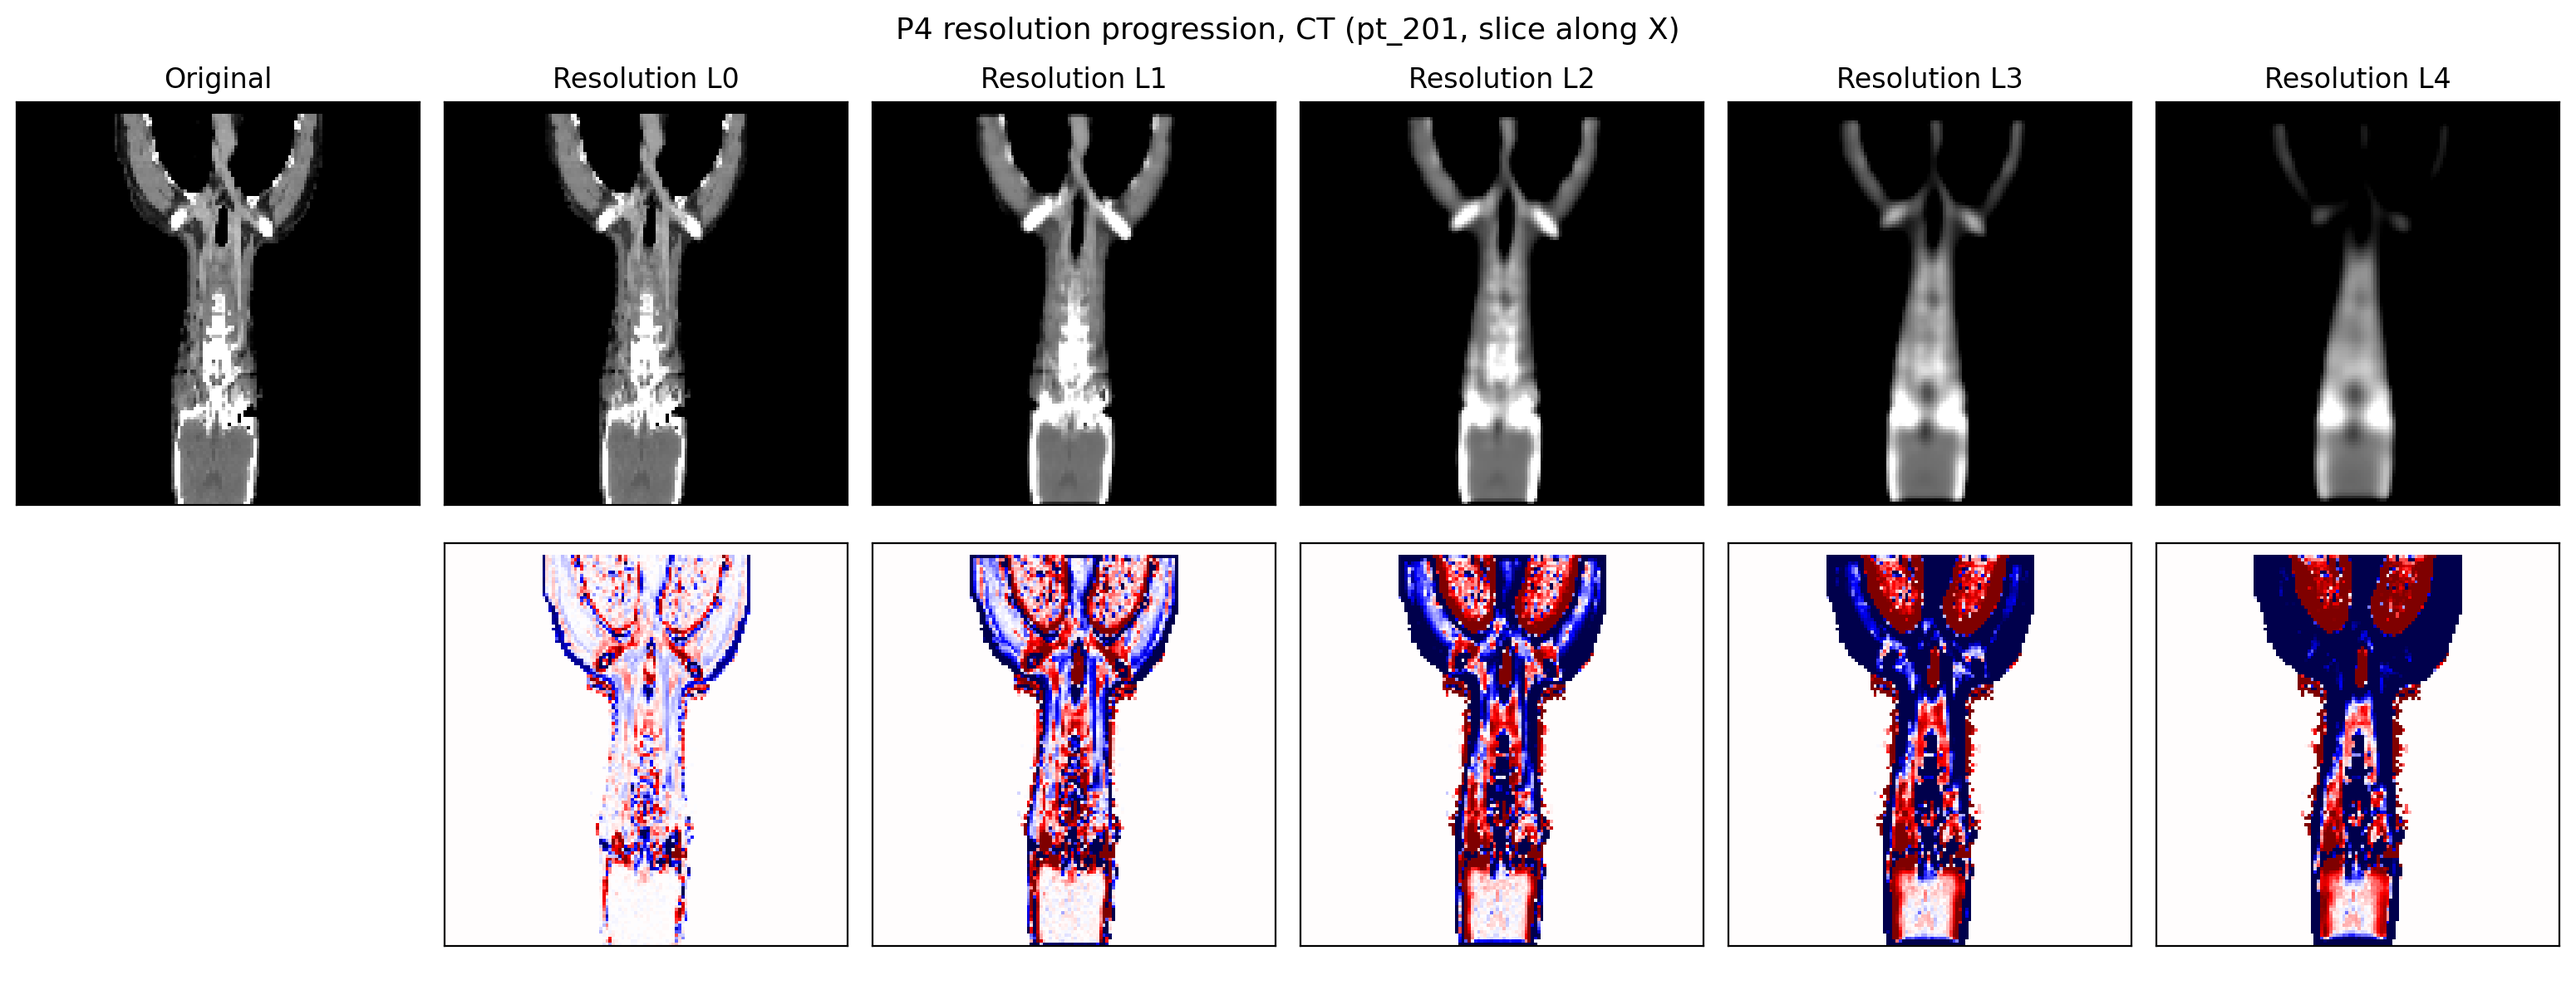
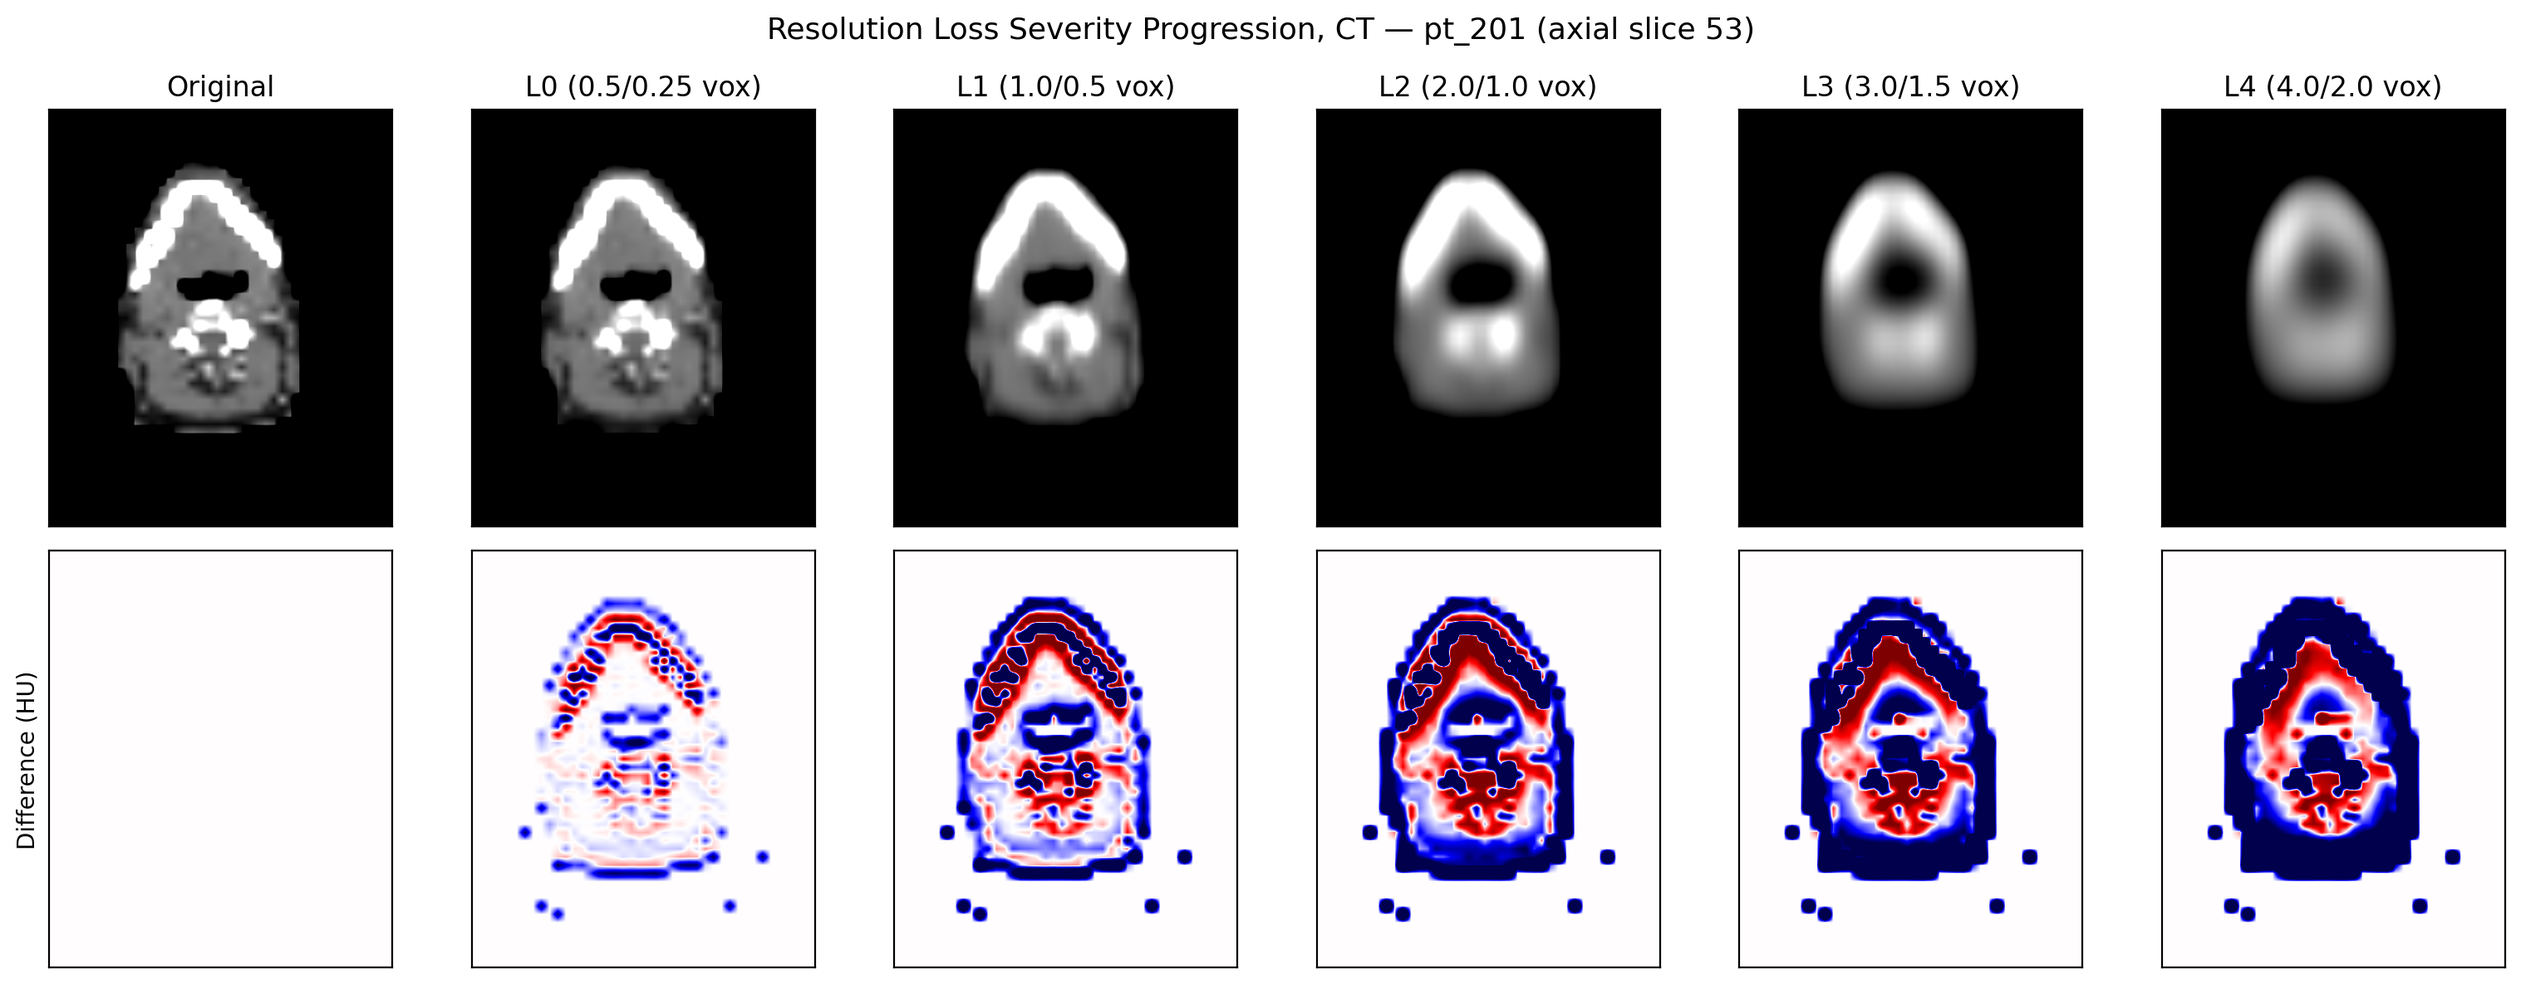
ASTRO package: resolve axis question (Z is axial), regen P4 progressions as true axial, update README
Visually verified ct_orientation_xyz.png: X=coronal, Y=sagittal, Z=axial.
Package now ships ct_slices_axial / dose_difference_axial and Z-sliced P4
progressions; README no longer asks the builder to confirm orientation.

diff --git a/reports/report2_ct_perturbation/astro_poster/regen_p4_progression_axial.py b/reports/report2_ct_perturbation/astro_poster/regen_p4_progression_axial.py
@@ -1,0 +1,114 @@
+#!/usr/bin/env python3
+"""Regenerate the P4 (resolution) severity-progression figures as TRUE AXIAL slices (axis 2, S-I),
+same recipe as regen_axial_figures.py: max-PTV-area slice, body-bbox crop, soft-tissue window.
+CPU only; reads SanDisk warehouse CTs, perturbed CTs, and saved prediction CSVs.
+"""
+import os
+import numpy as np
+import pandas as pd
+import matplotlib
+matplotlib.use("Agg")
+import matplotlib.pyplot as plt
+
+SD = "/Volumes/Neil's SanDisk/OpenKBP-Warehouse/open-kbp-modified"
+VAL = f"{SD}/provided-data/validation-pats"
+PERT = f"{SD}/openkbp_hn_robustness/data_perturbed"
+PRED = f"{SD}/openkbp_hn_robustness/predictions"
+SHAPE = (128, 128, 128)
+PID = "pt_201"
+LEVELS = ["L0", "L1", "L2", "L3", "L4"]
+LEVEL_PARAMS = ["0.5/0.25", "1.0/0.5", "2.0/1.0", "3.0/1.5", "4.0/2.0"]
+CT_MAX, HU_OFFSET = 4095.0, 1024.0
+WIN_LO, WIN_HI = 40.0 - 200.0, 40.0 + 200.0
+OUT = os.path.dirname(os.path.abspath(__file__))
+
+
+def load_vol(path):
+    df = pd.read_csv(path, index_col=0)
+    v = np.zeros(int(np.prod(SHAPE)))
+    v[df.index.values] = df["data"].values
+    return v.reshape(SHAPE)
+
+
+def load_mask(path):
+    df = pd.read_csv(path, index_col=0)
+    m = np.zeros(int(np.prod(SHAPE)), dtype=bool)
+    m[np.array(df.index).squeeze()] = True
+    return m.reshape(SHAPE)
+
+
+def ptv_slice_index():
+    area = np.zeros(SHAPE[2])
+    for name in ("PTV56", "PTV63", "PTV70"):
+        p = f"{VAL}/{PID}/{name}.csv"
+        if os.path.exists(p):
+            area += load_mask(p).sum(axis=(0, 1))
+    return int(np.argmax(area)) if area.any() else SHAPE[2] // 2
+
+
+def main():
+    w = ptv_slice_index()
+    print(f"axial S-I slice (max PTV area) = {w}")
+    base_ct = load_vol(f"{VAL}/{PID}/ct.csv")
+    base_dose = load_vol(f"{PRED}/baseline/{PID}.csv")
+
+    ax = lambda vol: vol[:, :, w]
+    body = ax(base_ct) / CT_MAX > 0.12
+    ys, xs = np.where(body)
+    mg = 6
+    d0, d1 = max(ys.min() - mg, 0), min(ys.max() + mg + 1, body.shape[0])
+    h0, h1 = max(xs.min() - mg, 0), min(xs.max() + mg + 1, body.shape[1])
+    crop = lambda a: a[d0:d1, h0:h1]
+    hu = lambda a: crop(ax(a)) - HU_OFFSET
+    show = lambda axi, img, **kw: axi.imshow(img, origin="upper", interpolation="bilinear", **kw)
+    body_c = crop(body).astype(float)
+
+    # ---- CT progression: baseline + P4 L0..L4 (top), CT difference (bottom) ----
+    n = len(LEVELS) + 1
+    fig, A = plt.subplots(2, n, figsize=(2.6 * n, 6))
+    show(A[0, 0], hu(base_ct), cmap="gray", vmin=WIN_LO, vmax=WIN_HI)
+    A[0, 0].set_title("Original")
+    A[1, 0].set_ylabel("Difference (HU)")
+    A[1, 0].imshow(np.zeros_like(hu(base_ct)), origin="upper", cmap="seismic", vmin=-120, vmax=120)
+    for r in (0, 1):
+        A[r, 0].set_xticks([]); A[r, 0].set_yticks([])
+    for i, (lev, par) in enumerate(zip(LEVELS, LEVEL_PARAMS)):
+        c = i + 1
+        pv = load_vol(f"{PERT}/P4_resolution/{lev}/{PID}/ct.csv")
+        show(A[0, c], hu(pv), cmap="gray", vmin=WIN_LO, vmax=WIN_HI)
+        show(A[1, c], (crop(ax(pv)) - crop(ax(base_ct))) * body_c,
+             cmap="seismic", vmin=-120, vmax=120)
+        A[0, c].set_title(f"{lev} ({par} vox)")
+        for r in (0, 1):
+            A[r, c].set_xticks([]); A[r, c].set_yticks([])
+    fig.suptitle(f"Resolution Loss Severity Progression, CT — {PID} (axial slice {w})", fontsize=13)
+    fig.tight_layout(); fig.savefig(f"{OUT}/p4_ct_progression.png", dpi=200, bbox_inches="tight")
+    plt.close(fig)
+
+    # ---- Dose progression: baseline + P4 L0..L4 predicted dose (top), dose diff (bottom) ----
+    dmax = float(np.percentile(base_dose[base_dose > 0], 99))
+    doseax = lambda a: crop(ax(a))
+    fig, A = plt.subplots(2, n, figsize=(2.6 * n, 6))
+    show(A[0, 0], doseax(base_dose), cmap="jet", vmin=0, vmax=dmax)
+    A[0, 0].set_title("Baseline")
+    A[1, 0].set_ylabel("Dose diff (Gy)")
+    A[1, 0].imshow(np.zeros_like(doseax(base_dose)), origin="upper", cmap="RdBu_r", vmin=-5, vmax=5)
+    for r in (0, 1):
+        A[r, 0].set_xticks([]); A[r, 0].set_yticks([])
+    for i, (lev, par) in enumerate(zip(LEVELS, LEVEL_PARAMS)):
+        c = i + 1
+        pdose = load_vol(f"{PRED}/P4_resolution/{lev}/{PID}.csv")
+        show(A[0, c], doseax(pdose), cmap="jet", vmin=0, vmax=dmax)
+        show(A[1, c], doseax(pdose) - doseax(base_dose), cmap="RdBu_r", vmin=-5, vmax=5)
+        A[0, c].set_title(f"{lev} ({par} vox)")
+        for r in (0, 1):
+            A[r, c].set_xticks([]); A[r, c].set_yticks([])
+    fig.suptitle(f"Resolution Loss Severity Progression, Predicted Dose — {PID} (axial slice {w})",
+                 fontsize=13)
+    fig.tight_layout(); fig.savefig(f"{OUT}/p4_dose_progression.png", dpi=200, bbox_inches="tight")
+    plt.close(fig)
+    print(f"wrote {OUT}/p4_ct_progression.png and {OUT}/p4_dose_progression.png")
+
+
+if __name__ == "__main__":
+    main()

diff --git a/reports/report2_ct_perturbation/astro_poster/README.md b/reports/report2_ct_perturbation/astro_poster/README.md
@@ -11,14 +11,14 @@ is required. Read section 0 first. Do not use em dashes anywhere in the poster t
 4. Fill the whole page. Do not leave large empty areas. Use a multi column layout, place figures at
    a readable size, and add a severity table (section 4) as its own panel so the page is full.
 5. Figures to place (files in this package):
-   a. CT perturbation examples (`ct_slices_x.png`).
+   a. CT perturbation examples (`ct_slices_axial.png`).
    b. Threshold / severity curve (`fig_panel5_maxcrit_gy.png`), the key quantitative figure.
-   c. Dose difference maps (`dose_difference_x.png`).
+   c. Dose difference maps (`dose_difference_axial.png`).
    d. Resolution severity progression (`p4_ct_progression.png` and `p4_dose_progression.png`).
    e. DVH curves under resolution loss (`dvh_Larynx.png`, `dvh_PTV70.png`).
    f. Optional: `degradation_curves.png`, `structure_radar.png`, `summary_bars.png`.
-6. Orientation of the CT/dose panels: see section 6. Confirm the axial view using
-   `ct_orientation_xyz.png` before finalizing.
+6. Orientation of the CT/dose panels: all provided CT and dose panels are true axial (transverse)
+   cross-sections, already verified. See section 6.
 7. Language must be formal and scientific. No em dashes. Use commas, periods, or parentheses.
 8. No vendor or commercial names anywhere (ACCME rule).
 
@@ -113,17 +113,19 @@ realistic range of cross-scanner slice-thickness and kernel differences), and re
 larynx at L4 (a plus 18.2 percent DVH-score change). The sensitive structures are geometrically
 complex ones (larynx, parotid glands, mandible).
 
-## 6. Figure orientation (important)
-The CT and dose panels are true axial cross-sections. To confirm the orientation before finalizing,
-open `ct_orientation_xyz.png`, which shows the same patient sliced three ways (along X, Y, Z). Pick
-the panel that is the axial (transverse) cross-section and use the panels sliced the same way. The
-provided `ct_slices_x.png`, `dose_difference_x.png`, `p4_ct_progression.png`, and
-`p4_dose_progression.png` are sliced along the X axis (axis 0).
+## 6. Figure orientation (resolved, verified visually)
+The OpenKBP volume axes are (anterior-posterior, left-right, superior-inferior). Slicing along the
+third axis (Z, superior-inferior) gives the true axial (transverse) cross-section; this was
+confirmed visually against `ct_orientation_xyz.png` (X is coronal, Y is sagittal, Z is axial). All
+CT and dose panels in this package (`ct_slices_axial.png`, `dose_difference_axial.png`,
+`p4_ct_progression.png`, `p4_dose_progression.png`) are true axial slices taken at the
+superior-inferior index with the largest planning-target-volume area (slice 53 for pt_201), cropped
+to the body, in conventional radiological orientation. No further orientation checking is needed.
 
 ## 7. Figures in this package
-- `ct_orientation_xyz.png`: original CT sliced along X, Y, Z (use to confirm the axial view).
-- `ct_slices_x.png`: original CT plus each perturbation family at level L2, with difference maps.
-- `dose_difference_x.png`: predicted dose plus difference from baseline per family.
+- `ct_orientation_xyz.png`: original CT sliced along X, Y, Z (orientation reference; Z is axial).
+- `ct_slices_axial.png`: original CT plus each perturbation family at level L2, with difference maps.
+- `dose_difference_axial.png`: predicted dose plus difference from baseline per family.
 - `p4_ct_progression.png`, `p4_dose_progression.png`: resolution loss L0 to L4 (the failure mode).
 - `dvh_Larynx.png`, `dvh_PTV70.png`: cumulative DVH curves, baseline vs resolution L0 to L4.
 - `fig_panel5_maxcrit_gy.png`: max per-criterion DVH shift vs severity, with the 1.0 Gy line.
